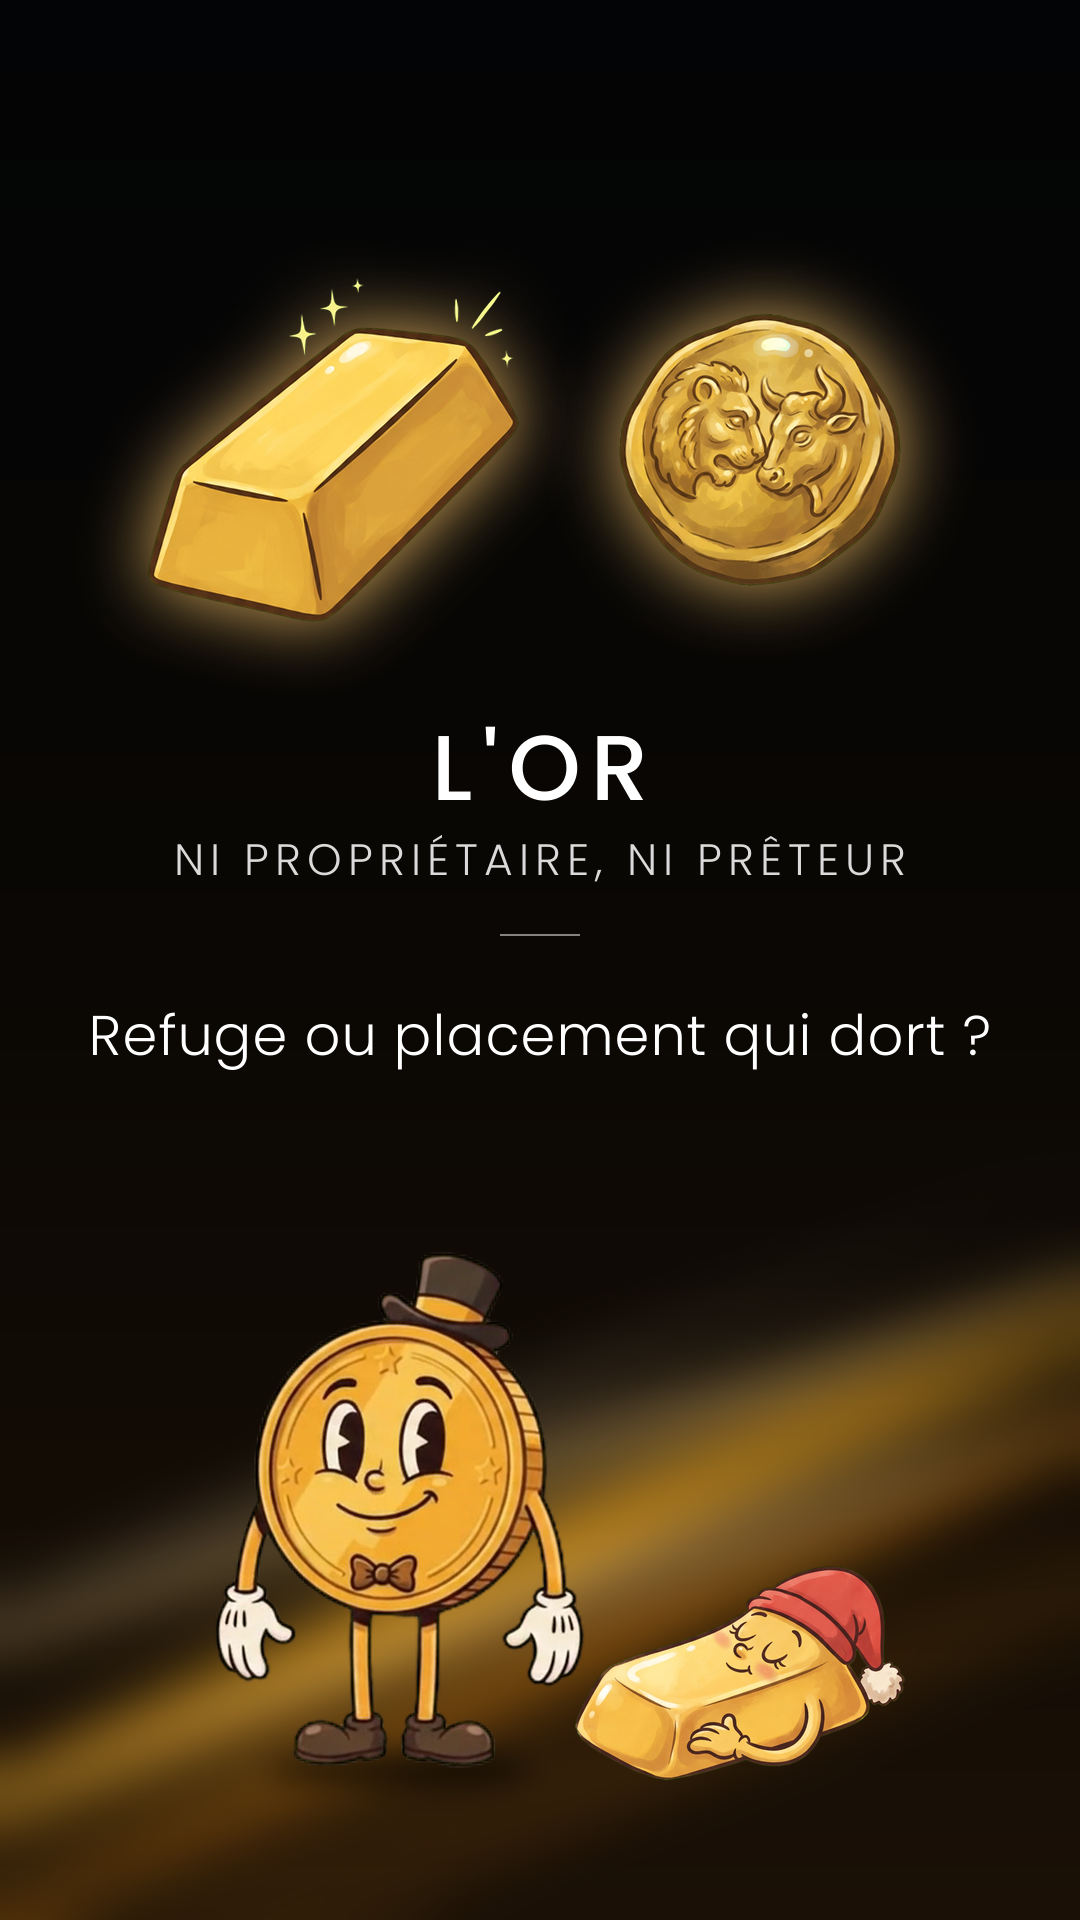
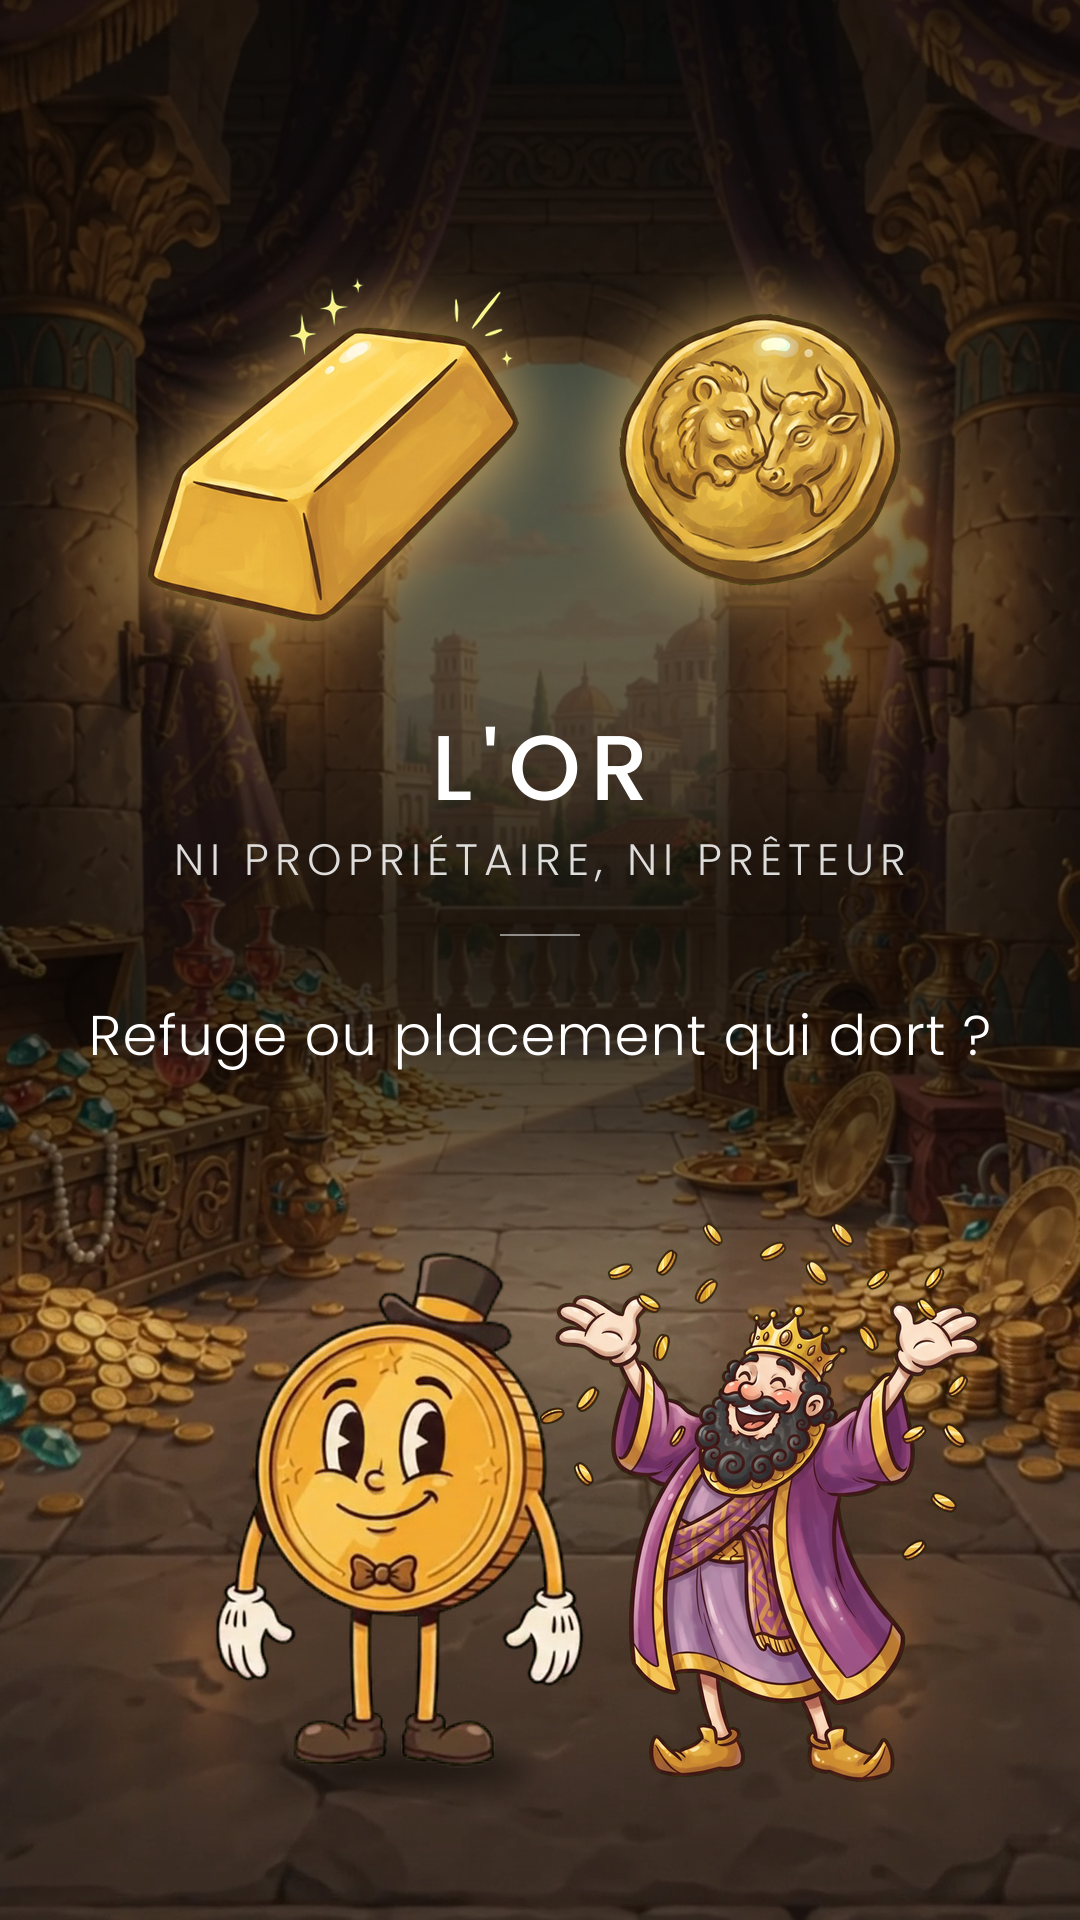
Or : couverture dans le trésor de Lydie, avec Crésus
Claude-Session: https://claude.ai/code/session_01VFT2ZKYV9NwmFvCsfcTKi7

diff --git a/episodes/2026-11-12_or/couverture.py b/episodes/2026-11-12_or/couverture.py
@@ -1,5 +1,5 @@
 """Couverture actions / obligations, DA historique : fond noir, rubans de lumière dorés, lingot et créséide en haut avec halo
-(à la place d'un logo), nom + « PROPRIÉTAIRE OU PRÊTEUR », question, Mister Coin et le lingot qui dort."""
+(à la place d'un logo), nom + « PROPRIÉTAIRE OU PRÊTEUR », question, Mister Coin et le roi Crésus, devant le trésor de Lydie."""
 import cairo, math, numpy as np, sys, os, subprocess
 HERE = os.path.dirname(os.path.abspath(__file__)); ROOT = os.path.abspath(os.path.join(HERE, '..', '..'))
 sys.path.insert(0, f'{ROOT}/lib'); sys.path.insert(0, f'{ROOT}/mister_coin')
@@ -11,17 +11,14 @@ def still(src, n, dst):
     if not os.path.exists(dst):
         subprocess.run(['ffmpeg', '-loglevel', 'error', '-y', '-i', src, '-vf', f'select=eq(n\\,{n})', '-vframes', '1', dst], check=True)
     return Image.open(dst).convert('RGB')
-def bg(c):
-    g = cairo.LinearGradient(0, 0, 0, H); g.add_color_stop_rgb(0, *hx('030405')[:3]); g.add_color_stop_rgb(.5, *hx('0A0704')[:3]); g.add_color_stop_rgb(1, *hx('1A1006')[:3]); c.set_source(g); c.paint()
-    lay = cairo.ImageSurface(cairo.FORMAT_ARGB32, W, H); k = cairo.Context(lay); k.set_operator(cairo.OPERATOR_ADD)
-    for (x, y, rx, ry, colr, a) in ((540, 1560, 1150, 70, 'D99A1E', .95), (600, 1650, 1100, 45, 'A8640A', .9), (470, 1480, 1000, 38, 'FFD98A', .55),
-                                    (640, 1760, 1200, 80, '3B2306', .6), (560, 1600, 700, 16, 'FFFFFF', .6), (430, 1420, 900, 24, 'FFE9C2', .3)):
-        k.save(); k.translate(x, y); k.rotate(-0.42+0.04*((x//10) % 3)); k.scale(rx, ry)
-        r = cairo.RadialGradient(0, 0, 0, 0, 0, 1); r.add_color_stop_rgba(0, *hx(colr, a)); r.add_color_stop_rgba(1, *hx(colr, 0)); k.set_source(r); k.arc(0, 0, 1, 0, 2*math.pi); k.fill(); k.restore()
-    lay.flush(); im = Image.frombuffer('RGBA', (W, H), bytes(lay.get_data()), 'raw', 'BGRa', lay.get_stride(), 1).filter(ImageFilter.GaussianBlur(28))
-    arr = np.asarray(im).astype(np.float32); fade = np.clip((np.arange(H)-700)/700, 0, 1)[:, None, None]; arr[..., :3] *= fade; arr[..., 3] *= fade[..., 0]
-    b = Image.fromarray(arr.astype(np.uint8), 'RGBA').tobytes('raw', 'BGRa'); src = cairo.ImageSurface.create_for_data(bytearray(b), cairo.FORMAT_ARGB32, W, H)
-    c.set_operator(cairo.OPERATOR_ADD); c.set_source_surface(src); c.paint(); c.set_operator(cairo.OPERATOR_OVER)
+def bg(c):   # le trésor de Lydie, la ville antique dans l'arche (demande du 11/11), assombri en haut pour la lisibilité des textes
+    d = still(f'{HERE}/decors/decor_lydie.mp4', 144, f'{TMP}/lydie_couv.png').resize((W, H), Image.LANCZOS)
+    arr = np.asarray(d.convert('RGB')).astype(np.float32); y = np.arange(H)[:, None, None]
+    dark = np.interp(y, [0, 650, 1120, 1320, H], [.70, .58, .55, .12, .30])
+    xs = np.arange(W)[None, :, None]; band = np.exp(-((y-930)/170.0)**2)*np.exp(-((xs-540)/520.0)**2)   # voile sombre doux derrière les textes
+    dark = np.clip(dark+.25*band, 0, .9)
+    arr *= 1-dark; b = Image.fromarray(arr.astype(np.uint8)).convert('RGBA').tobytes('raw', 'BGRa')
+    src = cairo.ImageSurface.create_for_data(bytearray(b), cairo.FORMAT_ARGB32, W, H); c.set_source_surface(src); c.paint()
 cards.bg = bg
 _put = cards.put
 def _q(c, s_, y, fam, size, *a, **k):
@@ -42,7 +39,7 @@ for slot, name in ((False, 'couverture.png'), (True, 'couverture_emplacement_log
         sh = Image.new('L', (W, H), 0); ImageDraw.Draw(sh).ellipse((cx-ch.width*.35, feet-16, cx+ch.width*.35, feet+14), fill=170)
         im.paste((0, 0, 0, 255), (0, 0), sh.filter(ImageFilter.GaussianBlur(14)))
         im.alpha_composite(ch, (int(cx-ch.width/2), feet-ch.height))
-    ld = Image.open(f'{HERE}/props/lingot_dort.png').convert('RGBA'); ld = ld.resize((330, int(ld.height*330/ld.width)), Image.LANCZOS); im.alpha_composite(ld, (740-165, feet-ld.height+10))
+    ld = Image.open(f'{HERE}/props/cresus.png').convert('RGBA'); ld = ld.resize((int(ld.width*560/ld.height), 560), Image.LANCZOS); im.alpha_composite(ld, (760-ld.width//2, feet-ld.height+12))
     def prop(n, w):
         p = Image.open(f'{HERE}/props/{n}.png').convert('RGBA'); p = p.crop(p.getbbox()); return p.resize((w, int(p.height*w/p.width)), Image.LANCZOS)
     for p, cx, rot in ((prop('lingot', 380), 330, 4), (prop('creseide', 280), 760, -6)):
